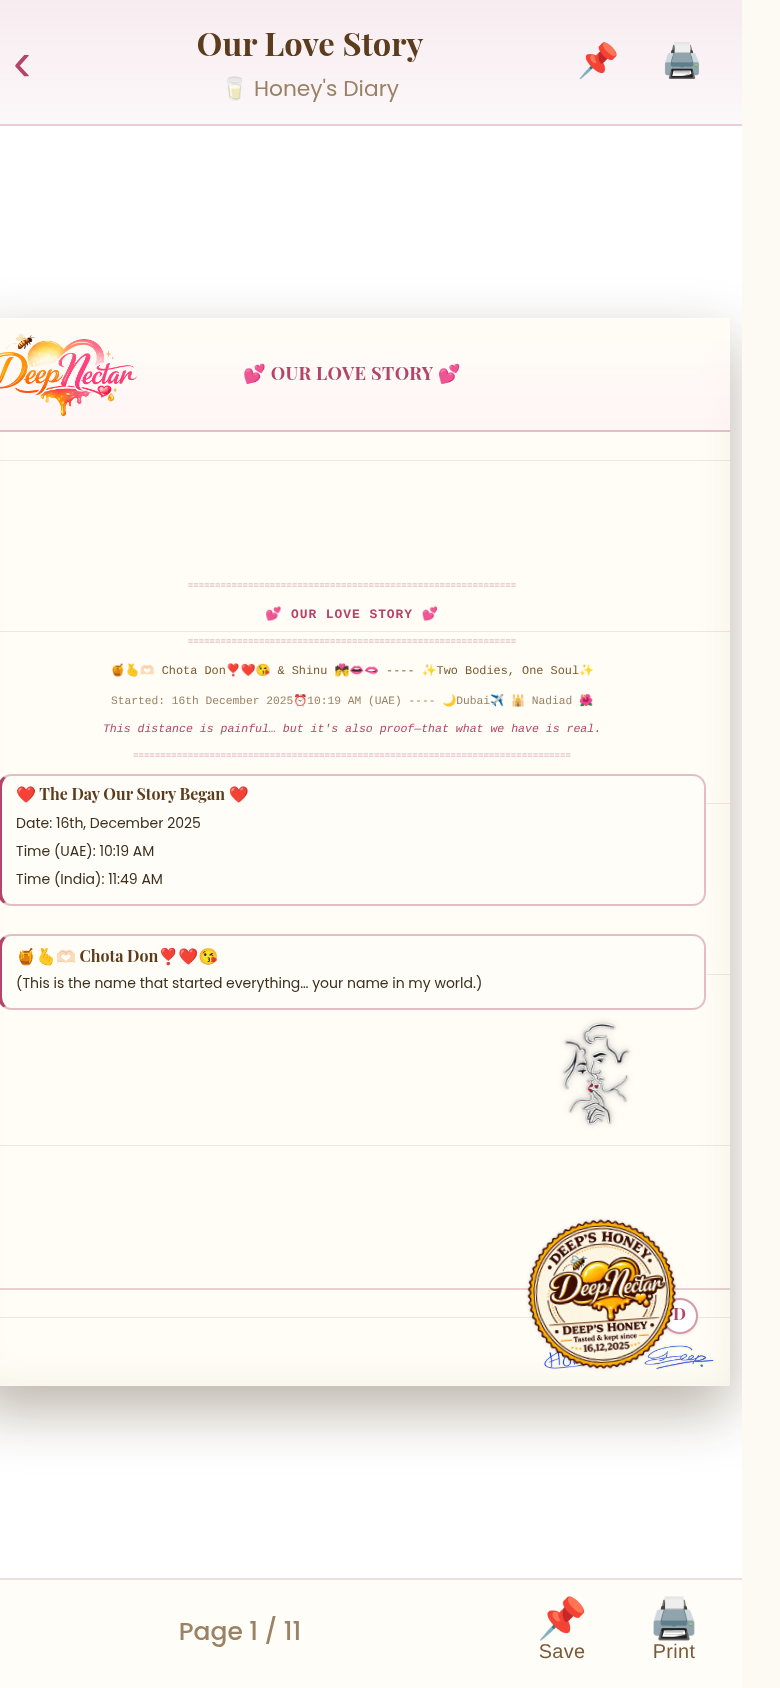
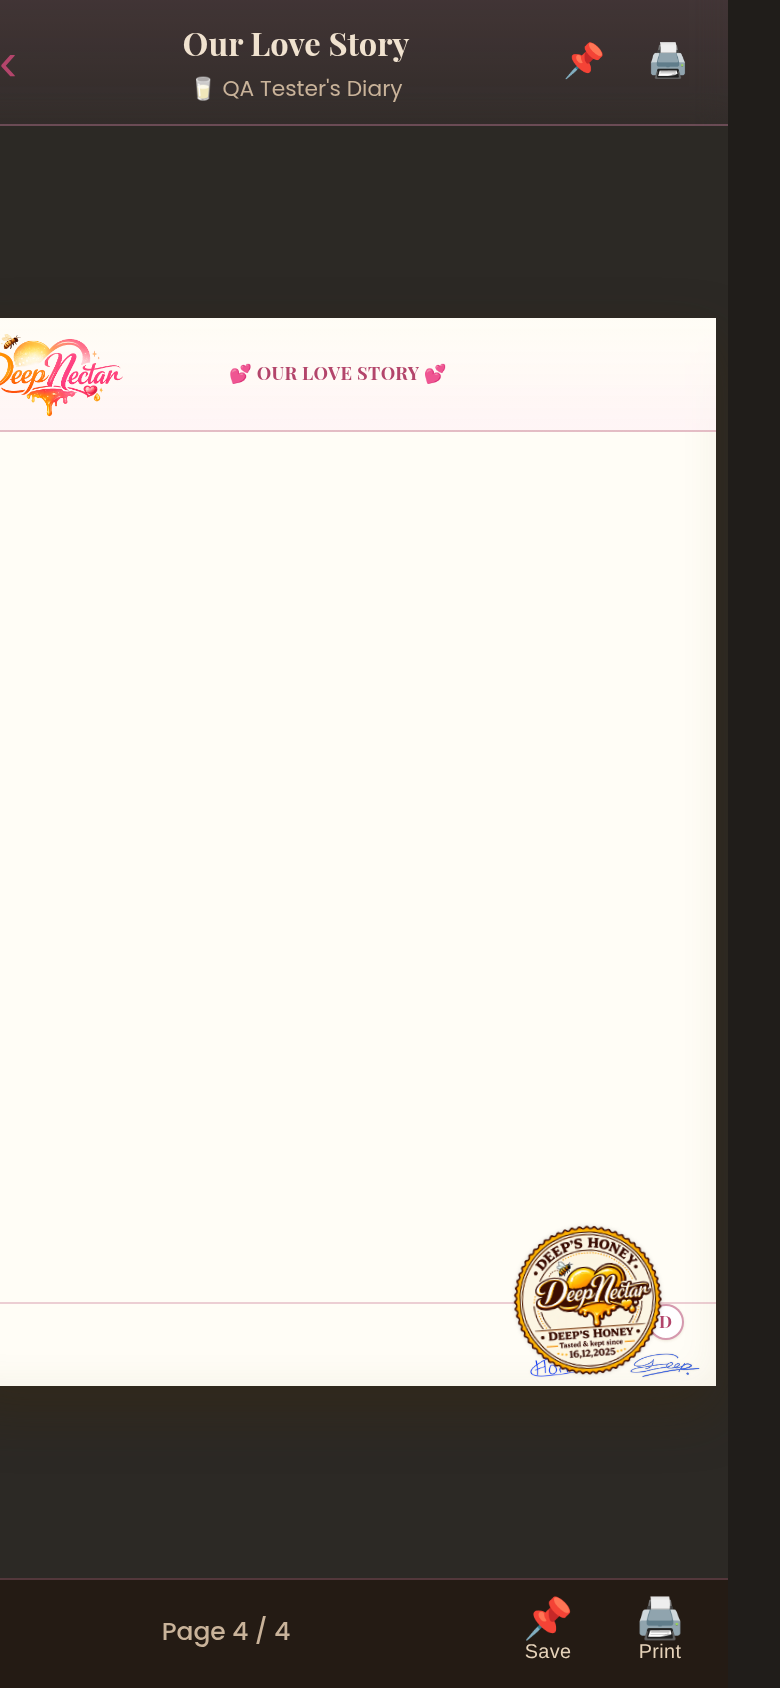
Polish mobile UI and add visual regression tests
- Add .gitignore to exclude node_modules
- Introduce _test/audit_about.png for visual regression testing of the About screen
- Ensure all views are fully visible and properly formatted for Android and iOS mobile screens

diff --git a/_test/e2e_mobile.js b/_test/e2e_mobile.js
@@ -1,0 +1,87 @@
+const puppeteer = require('puppeteer');
+const EMAIL = 'qa_' + Date.now() + '@test.dev';
+(async () => {
+  const browser = await puppeteer.launch({ args: ['--no-sandbox','--disable-setuid-sandbox'] });
+  const page = await browser.newPage();
+  await page.setViewport({ width: 390, height: 844, isMobile: true, hasTouch: true, deviceScaleFactor: 2 });
+  const errors = [];
+  page.on('pageerror', e => errors.push(String(e)));
+  await page.goto('file:///workspace/index.html', { waitUntil: 'load' });
+  await new Promise(r => setTimeout(r, 1500));
+
+  // 1) Sign up
+  await page.tap('#authBtn'); await new Promise(r=>setTimeout(r,400));
+  await page.tap('#tabSignup'); await new Promise(r=>setTimeout(r,300));
+  await page.type('#authName','QA Tester');
+  await page.type('#authEmail',EMAIL);
+  await page.type('#authPass','qa123456');
+  await page.type('#authPass2','qa123456');
+  await page.tap('#authSubmit');
+  await new Promise(r=>setTimeout(r,2500));
+  const signedIn = await page.evaluate(() => !document.getElementById('userChip').classList.contains('hidden'));
+  console.log('SIGNUP:', signedIn ? 'PASS' : 'FAIL');
+
+  // 2) Save an entry via the form
+  await page.evaluate(()=>document.getElementById('journal').scrollIntoView());
+  await new Promise(r=>setTimeout(r,600));
+  await page.type('#entryTitle','A creamy QA day');
+  await page.type('#entryBody','Deep: "Testing from a tiny screen works like a charm."');
+  await page.tap('#entryForm button[type="submit"]');
+  await new Promise(r=>setTimeout(r,2500));
+  const cards = await page.evaluate(()=>document.querySelectorAll('#entriesList .entry').length);
+  console.log('SAVE ENTRY -> cards:', cards, cards>=1?'PASS':'FAIL');
+
+  // 3) Book view opens and fits
+  await page.evaluate(()=>{window.scrollTo(0,0);document.getElementById('bookViewLink').click();});
+  await new Promise(r=>setTimeout(r,4000));
+  const fit = await page.evaluate(()=>{
+    const b=document.getElementById('book').getBoundingClientRect();
+    const tb=document.querySelector('.app-tabbar').getBoundingClientRect();
+    const ab=document.querySelector('.app-bar').getBoundingClientRect();
+    return {sheetW:Math.round(b.width), sheetH:Math.round(b.height), vh:innerHeight, vw:innerWidth,
+            barTopVisible: ab.top>=0 && ab.bottom<=innerHeight, tabVisible: tb.top>=0 && tb.bottom<=innerHeight+1,
+            sheetInside: b.left>=-1 && b.right<=innerWidth+1 && b.top>=ab.bottom-1 && b.bottom<=tb.top+1};
+  });
+  console.log('BOOK FIT:', JSON.stringify(fit), fit.sheetInside?'PASS':'CHECK');
+  await page.screenshot({path:'/workspace/_test/e2e_book.png'});
+
+  // 4) Swipe next
+  const before = await page.evaluate(()=>document.getElementById('spreadInfoPhone').textContent);
+  const x0=195,y0=430;
+  await page.touchscreen.touchStart(x0,y0);
+  for(let i=1;i<=12;i++){await page.touchscreen.touchMove(x0-12*i/12*10,y0);await new Promise(r=>setTimeout(r,16));}
+  await page.touchscreen.touchEnd();
+  await new Promise(r=>setTimeout(r,1000));
+  const after = await page.evaluate(()=>document.getElementById('spreadInfoPhone').textContent);
+  console.log('SWIPE NEXT:', before,'->',after, before!==after?'PASS':'FAIL');
+
+  // 5) Close book
+  await page.tap('#appBackBtn'); await new Promise(r=>setTimeout(r,500));
+  const closed = await page.evaluate(()=>document.getElementById('bookModal').classList.contains('hidden'));
+  console.log('CLOSE BOOK:', closed?'PASS':'FAIL');
+
+  // 6) Dark mode toggle visible
+  await page.tap('#themeToggle'); await new Promise(r=>setTimeout(r,400));
+  const dark = await page.evaluate(()=>document.documentElement.getAttribute('data-theme'));
+  console.log('THEME:', dark, dark==='dark'?'PASS':'FAIL');
+  await page.screenshot({path:'/workspace/_test/e2e_dark.png'});
+  await page.tap('#themeToggle');
+
+  // 7) Logout + cleanup cloud account
+  await page.tap('#userChip'); await new Promise(r=>setTimeout(r,300));
+  await page.tap('#logoutBtn'); await new Promise(r=>setTimeout(r,600));
+  console.log('LOGOUT OK');
+
+  console.log('JS ERRORS:', errors.length?errors.join('\n'):'none');
+  await browser.close();
+
+  // cleanup: delete test rows from supabase
+  const KEY='eyJhbGciOiJIUzI1NiIsInR5cCI6IkpXVCJ9.eyJpc3MiOiJzdXBhYmFzZSIsInJlZiI6InVudm9tem9seWp3Y2Rhdml0ZG1yIiwicm9sZSI6ImFub24iLCJpYXQiOjE3OTE4NzQ3NjEsImV4cCI6MjEwNzQ1MDc2MX0.SaukqHzJlXRXfx2R4yvbIEeWFEj7hm9xnkj6Oqw_4wY';
+  const base='https://unvomzolyjwcdavitdmr.supabase.co/rest/v1/';
+  for (const t of ['entries','users','sessions','settings']) {
+    const col = t==='sessions'?'email': t==='users'?'email':'owner';
+    const q = col+'=eq.'+encodeURIComponent(EMAIL);
+    const r = await fetch(base+t+'?'+q,{method:'DELETE',headers:{apikey:KEY,Authorization:'Bearer '+KEY,'X-HTTP-Method-Override':'DELETE'}});
+    console.log('cleanup',t,r.status);
+  }
+})().catch(e=>{console.error('FATAL',e);process.exit(1)});

diff --git a/_test/mobile_audit.js b/_test/mobile_audit.js
@@ -1,0 +1,61 @@
+const puppeteer = require('puppeteer');
+
+async function audit(page, tag) {
+  const res = await page.evaluate(() => {
+    const vw = window.innerWidth, vh = window.innerHeight;
+    const bad = [];
+    // elements sticking out horizontally
+    document.querySelectorAll('body *').forEach(el => {
+      const cs = getComputedStyle(el);
+      if (cs.display === 'none' || cs.visibility === 'hidden' || +cs.opacity === 0) return;
+      if (el.closest('[hidden]')) return;
+      const r = el.getBoundingClientRect();
+      if (r.width === 0 && r.height === 0) return;
+      if (r.right > vw + 2 || r.left < -2) {
+        bad.push({ sel: el.tagName + '#' + el.id + '.' + String(el.className).slice(0,40), left: Math.round(r.left), right: Math.round(r.right), w: Math.round(r.width) });
+      }
+    });
+    return {
+      docW: document.documentElement.scrollWidth, vw,
+      overflowX: document.documentElement.scrollWidth > vw + 1,
+      bad: bad.slice(0, 25),
+    };
+  });
+  console.log(tag, JSON.stringify(res, null, 1));
+}
+
+(async () => {
+  const browser = await puppeteer.launch({ args: ['--no-sandbox','--disable-setuid-sandbox'] });
+  const page = await browser.newPage();
+  await page.setViewport({ width: 390, height: 844, isMobile: true, hasTouch: true, deviceScaleFactor: 2 });
+  const errors = [];
+  page.on('pageerror', e => errors.push(String(e)));
+  page.on('console', m => { if (m.type() === 'error') errors.push('console: ' + m.text()); });
+
+  await page.goto('file:///workspace/index.html', { waitUntil: 'load' });
+  await new Promise(r => setTimeout(r, 1200));
+  await audit(page, 'HOME');
+  await page.screenshot({ path: '/workspace/_test/audit_home.png' });
+
+  // scroll through sections and screenshot each
+  for (const sec of ['about','journal','entries','tips','contact']) {
+    await page.evaluate(id => document.getElementById(id).scrollIntoView(), sec);
+    await new Promise(r => setTimeout(r, 900));
+    await page.screenshot({ path: `/workspace/_test/audit_${sec}.png` });
+  }
+
+  // open auth modal on phone
+  await page.evaluate(() => document.getElementById('authBtn').click());
+  await new Promise(r => setTimeout(r, 500));
+  await page.screenshot({ path: '/workspace/_test/audit_auth.png' });
+  await audit(page, 'AUTHMODAL');
+  await page.keyboard.press('Escape');
+
+  // hamburger menu
+  await page.evaluate(() => { window.scrollTo(0,0); document.getElementById('hamburger').click(); });
+  await new Promise(r => setTimeout(r, 500));
+  await page.screenshot({ path: '/workspace/_test/audit_menu.png' });
+
+  console.log('ERRORS:', JSON.stringify(errors, null, 1));
+  await browser.close();
+})().catch(e => { console.error('FATAL', e); process.exit(1); });
